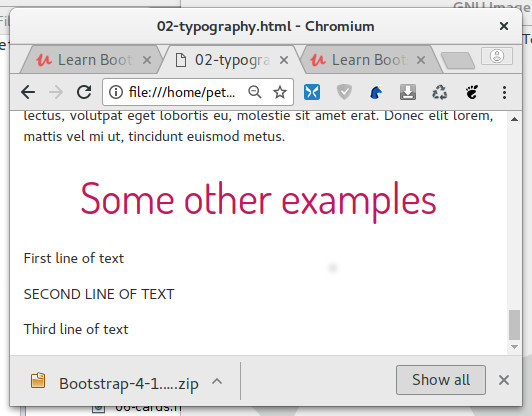
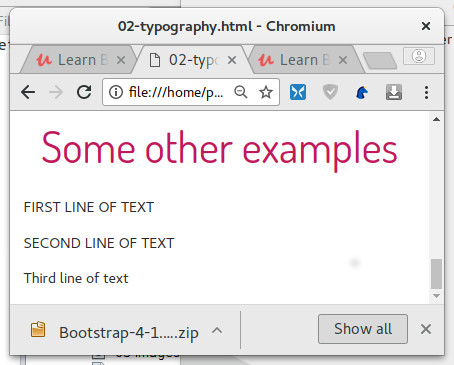
Make a paragraph to display only in lowercase

Changed region(s): [[0.0, 0.0, 1.0, 1.0], [0.4934, 0.9644, 0.5859, 0.9945], [0.5242, 0.8137, 0.5551, 0.8438]]

diff --git a/Chp1/02-typography.html b/Chp1/02-typography.html
@@ -65,7 +65,7 @@
       <h2 class="lecture-title">Some other examples</h2>
 
       <p class="text-uppercase">First line of text</p>
-      <p>SECOND LINE OF TEXT</p>
+      <p class="text-lowercase">SECOND LINE OF TEXT</p>
       <p>Third line of text</p>
       
     </main>
